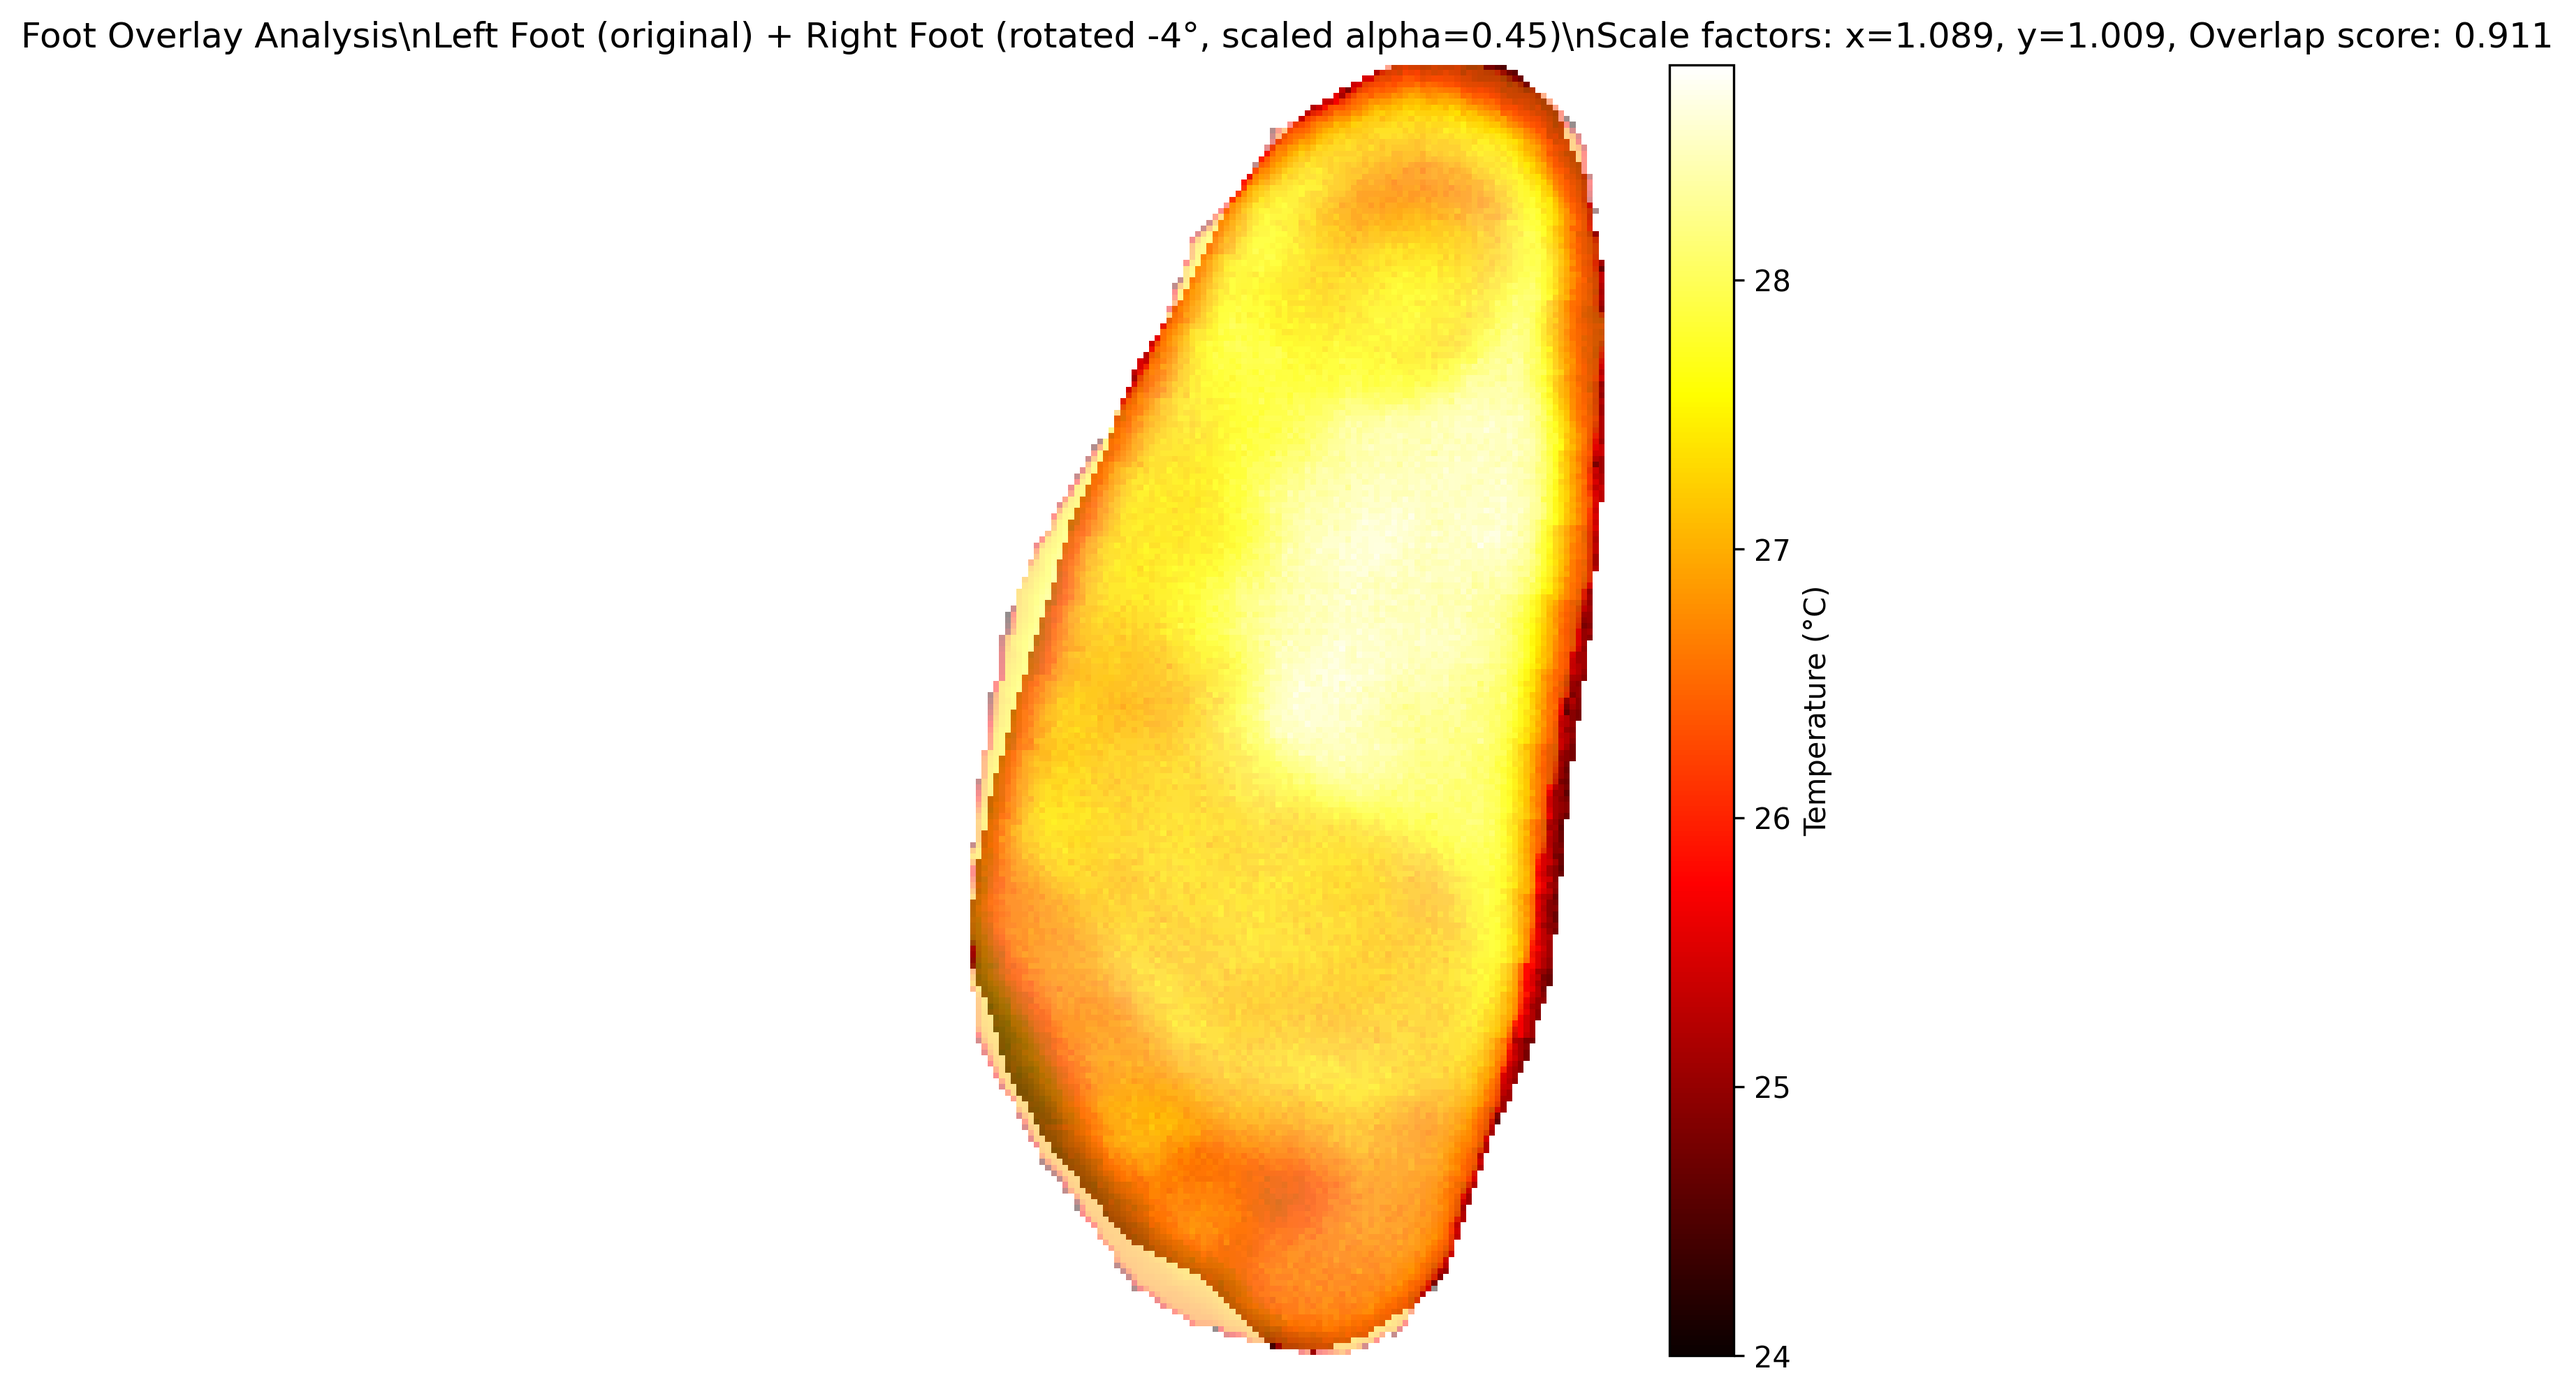
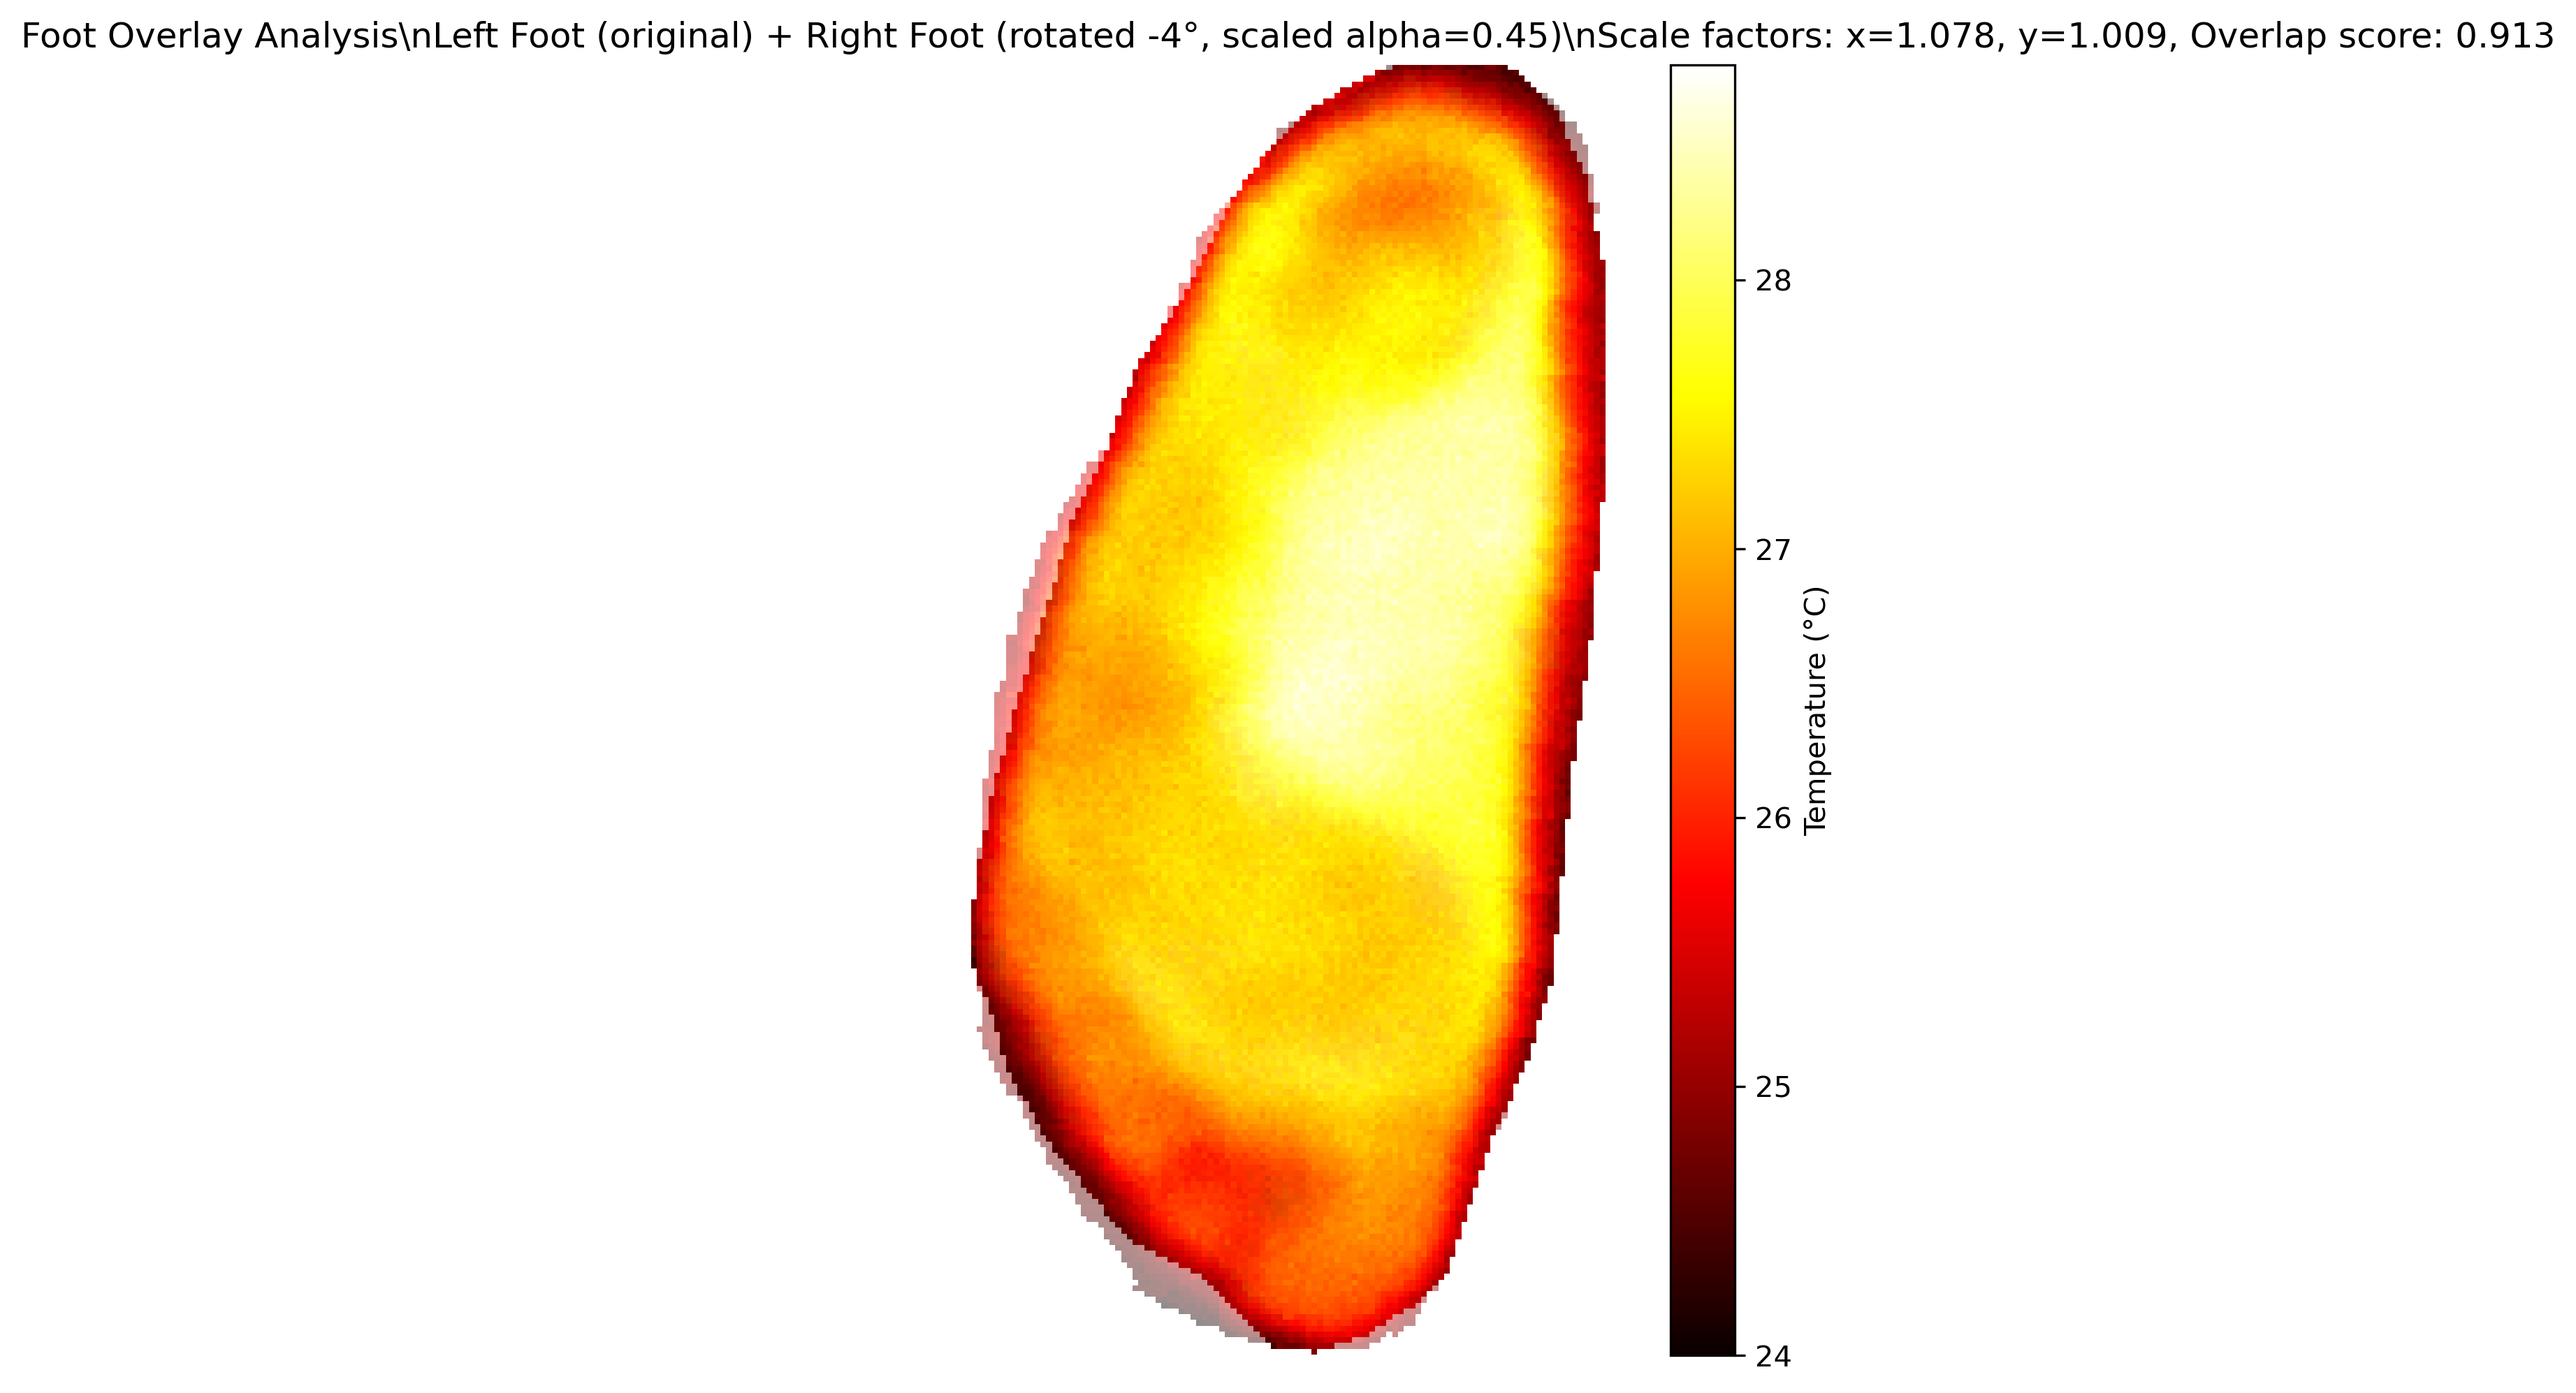
Update .gitignore to exclude additional  output directories

Changed region(s): [[0.3745, 0.0311, 0.6242, 0.9945], [0.749, 0.0, 0.7802, 0.0311], [0.6866, 0.5594, 0.7178, 0.5905]]

diff --git a/process_mat_files.py b/process_mat_files.py
@@ -9,11 +9,11 @@ from scipy.io.matlab.miobase import MatReadWarning
 warnings.filterwarnings("ignore", category=MatReadWarning)
 
 # Load the .mat file
-mat = scipy.io.loadmat("Data/Temp Data/gz1.mat")
+mat = scipy.io.loadmat("Data/Temp Data/gz3.mat")
 
 # NOTE: swapped left/right as you mentioned
-left_crop  = mat["Direct_plantar_Right_crop"]
-right_crop = mat["Direct_plantar_Left_crop"]
+left_crop  = mat["Indirect_plantar_Right_crop"]
+right_crop = mat["Indirect_plantar_Left_crop"]
 
 # Create output folder
 output_dir = "output_images"
